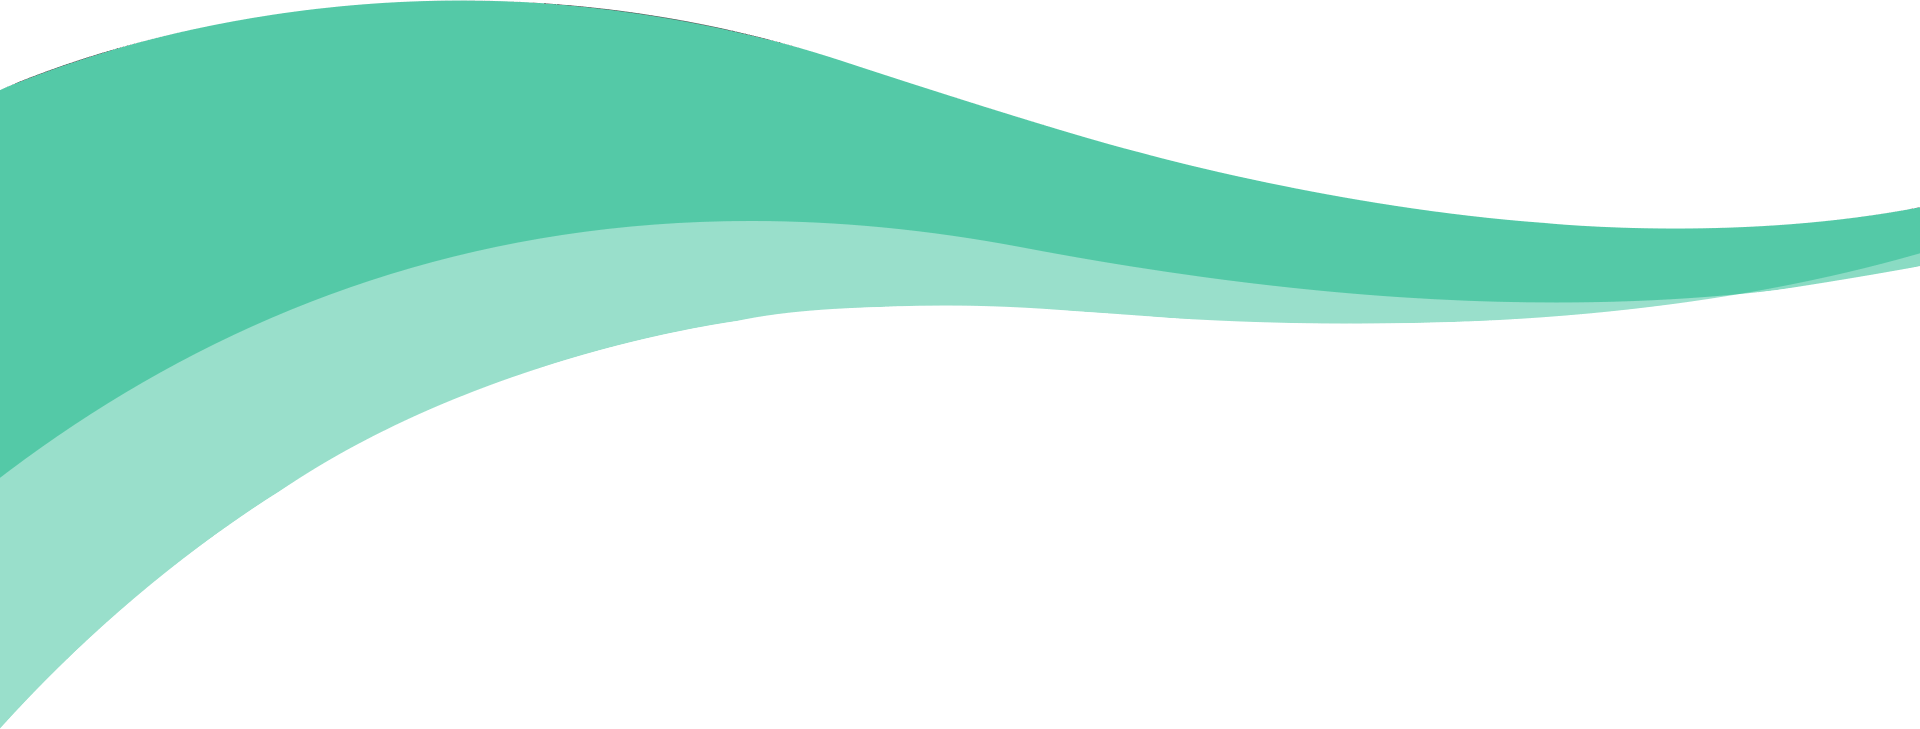
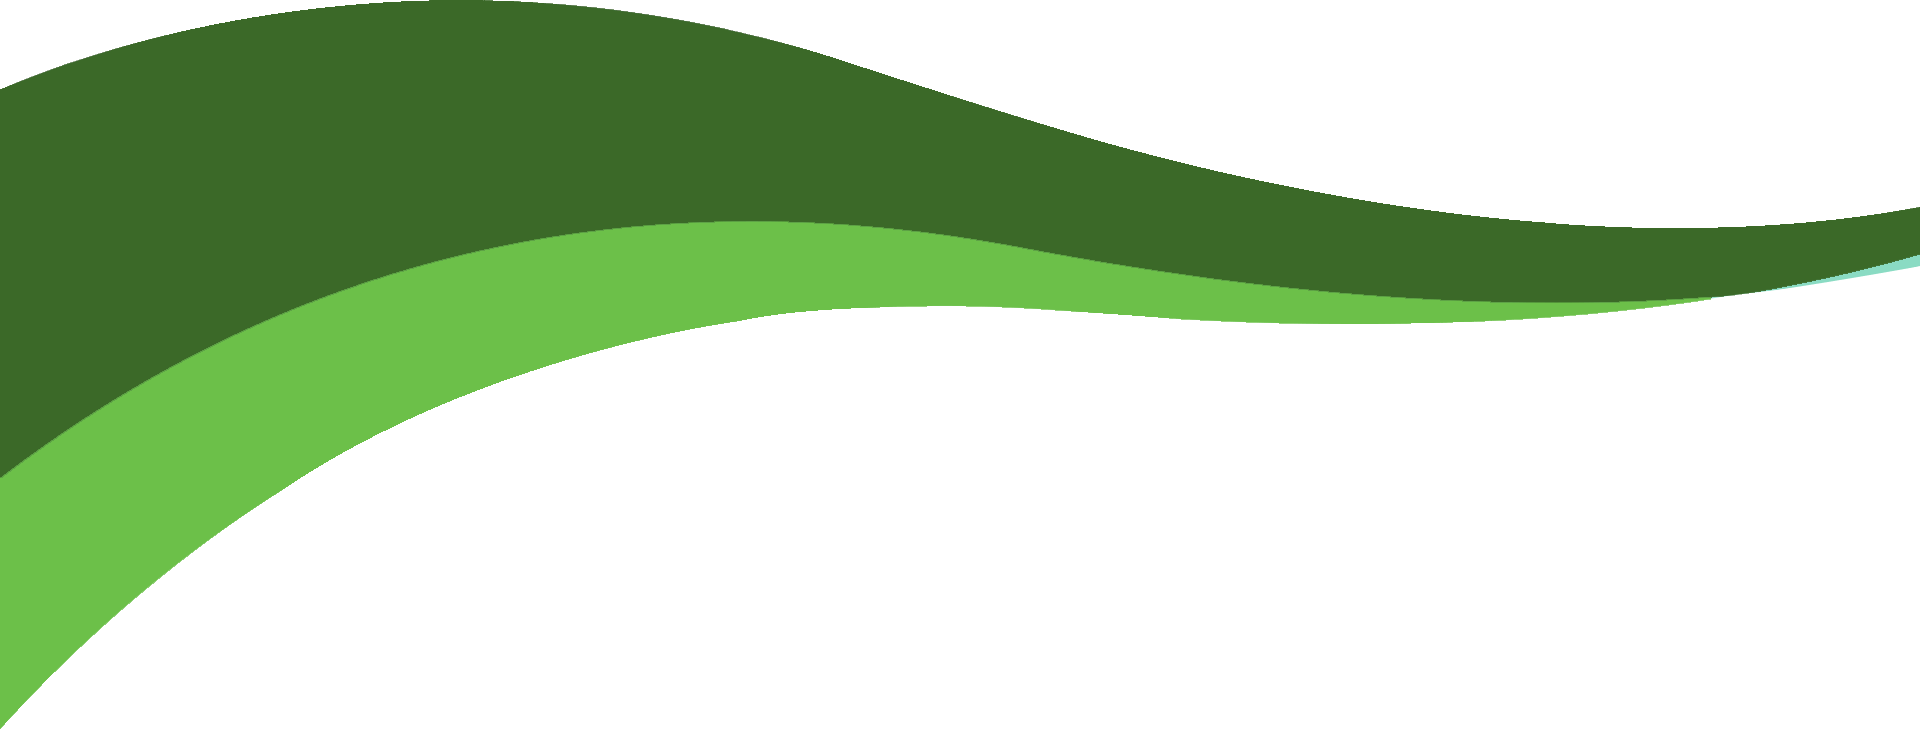
Diseño actualizado

diff --git a/index.html b/index.html
@@ -18,8 +18,8 @@
       <link rel="stylesheet" href="css/style.css">
       <!-- Responsive-->
       <link rel="stylesheet" href="css/responsive.css">
-      <!-- fevicon -->
-      <link rel="icon" href="images/fevicon.png" type="image/gif" />
+      <!-- favicon -->
+      <link rel="icon" href="images/favicon.png" type="image/gif" />
       <!-- Scrollbar Custom CSS -->
       <link rel="stylesheet" href="css/jquery.mCustomScrollbar.min.css">
       <!-- Tweaks for older IEs-->
@@ -45,7 +45,7 @@
                <div class="col-xl-3 col-lg-3 col-md-3 col-sm-3 col logo_section">
                   <div class="full">
                      <div class="center-desk">
-                        <div class="logo"> <a href="index.html">Agatar Servicios</a> </div>
+                        <div class="logo"> <a href="index.html"><img src="images/logo.png" alt="Logo"> </a></div>
                      </div>
                   </div>
                </div>
@@ -94,7 +94,7 @@
                   <div class="titlepage">
                      <h2>Quiénes somos</h2>
                      <span>
-                        Somos una empresa que presta servicios de <strong>Conserjería, Limpieza y Jardinería</strong> en toda la Comunidad Madrid.
+                        Agatar Servicios cuenta con más de 20 años de experiencia prestando los servicios de <strong>Conserjería, Limpieza y Jardinería</strong> en toda la Comunidad Madrid.
                         <br><br>
                         Nuestro objetivo es satisfacer plenamente las necesidades de nuestros clientes en toda la <strong>Comunidad de Madrid</strong>, aportando en cada situación
                         y momento nuestros amplios conocimientos, asegurando los más altos estándares de calidad.
@@ -135,14 +135,24 @@
                         Garantizamos a nuestros clientes la máxima excelencia en calidad de servicio, con soluciones personalizadas que permiten adaptar los costes a
                         las necesidades reales de cada cliente y a todo tipo de empresas, independientemente de sus tamaño o actividad, públicas o privadas.
                         <br><br>
-                        Ponte en contacto con nosotros y recibirás, sin ningún compromiso, un proyecto ajustado a tus necesidades.
+                        Ponte en contacto con nosotros y recibirás, sin ningún compromiso y de manera gratuita, un presupuesto ajustado a tus necesidades.
                         <br><br>
                         <strong>
-                           Servicios de Limpieza
+                           Limpieza final de obra
                            <br>
-                           Consejería y Control de Accesos
+                           Limpieza de comunidades
                            <br>
-                           Jardinería y Mantenimiento General de Instalaciones
+                           Limpieza de oficinas
+                           <br>
+                           Limpieza de garajes
+                           <br>
+                           Limpieza de viviendas
+                           <br>
+                           Limpieza de cristales y escaparates
+                           <br>
+                           Consejería (2, 4, 8, 16 o 24 horas)
+                           <br>
+                           Mantenimiento y cuidado de jardines de manera ecológica
                         </strong>
                      </span>
                   </div>
@@ -199,6 +209,9 @@
                   <div class="titlepage">
                      <h2>Compromiso</h2>
                      <span>
+                        La seriedad, la confianza y al profesionalidad son nuestras señas de identidad.
+                        <br>
+                        <br>
                         Agatar Servicios ofrece una manera diferente de trabajar, con propuestas personalizadas, analizando las necesidades de cada cliente.
                         <br>
                         <br>
@@ -242,17 +255,17 @@
                <div class="row">
                   <div class="col-lg-3 col-md-6 col-sm-12 width">
                      <div class="address">
-                        <h3><img src="icon/3.png"> Dirección</h3>
+                        <h3><img src="icon/3_1.png"> Dirección</h3>
                         <i>
                            Calle Benimamet nº 4
                            <br>
-                           28021 Madrid
+                           CP 28021 Madrid
                         </i>
                      </div>
                   </div>
                   <div class="col-lg-3 col-md-6 col-sm-12 width">
                      <div class="address">
-                        <h3><img src="icon/2.png"> Menú</h3>
+                        <h3><img src="icon/2_1.png"> Menú</h3>
                         <i>
                            <ul>
                               <li> <a href="index.html">Inicio</a> </li>
@@ -266,21 +279,25 @@
                   </div>
                   <div class="col-lg-3 col-md-6 col-sm-12 width">
                      <div class="address">
-                        <h3><img src="icon/4.png"> Contacto</h3>
+                        <h3><img src="icon/4_1.png"> Contacto</h3>
                         <i>
                            <p>Joni Mauricio Tabora</p>
-                           <a href="mailto:email@ejemplo.com">joni_tabora@hotmail.com</a>
+                           <a href="mailto:joni_tabora@gmail.com">joni_tabora@gmail.com</a>
+                           <a href="mailto:agatarservicios@gmail.com">agatarservicios@gmail.com</a>
                            <br>
-                           <a href="tel:+34682351284">682351284</a>
+                           Telefono 1: <a href="tel:+34682351284">682351284</a>
+                           <br>
+                           Teléfono 2: <a href="tel:+34632979506">632979506</a>
                         </i>
                      </div>
                   </div>
                   <div class="col-lg-3 col-md-6 col-sm-12 width">
                      <div class="address">
+                     
                         <h3> Redes sociales</h3>
                         <ul class="contant_icon">
-                           <li><a href="https://m.facebook.com/jonimauricio.tabora/" target="_blank"><img src="icon/fb.png" alt="icon"/></a> </li>
-                           <li><a href="https://api.whatsapp.com/send?phone=+34682351284" target="_blank"><img src="icon/ws.png" alt="icon"/></a></li>
+                           <li><a href="https://m.facebook.com/jonimauricio.tabora/" target="_blank"><img src="icon/fb_1.png" alt="icon"/></a> </li>
+                           <li><a href="https://api.whatsapp.com/send?phone=+34682351284" target="_blank"><img src="icon/ws_1.png" alt="icon"/></a></li>
                         </ul>
                      </div>
                   </div>
@@ -298,7 +315,6 @@
       <script src="js/bootstrap.bundle.min.js"></script>
       <script src="js/jquery-3.0.0.min.js"></script>
       <script src="js/plugin.js"></script>
-      <script src="js/contact-form-script.js"></script>
       <!-- sidebar -->
       <script src="js/jquery.mCustomScrollbar.concat.min.js"></script>
       <script src="js/custom.js"></script>

diff --git a/css/style.css b/css/style.css
@@ -464,11 +464,11 @@ nav.main-menu {
 
 .menu-area-main li:hover a,
 .menu-area-main li:focus a {
-	color: #000;
+	color: #3b6928;
 }
 
 .menu-area-main li.active a {
-	color: #000;
+	color: #3b6928;
 }
 
 .right_cart_section {
@@ -1050,7 +1050,7 @@ nav.main-menu {
 	font-size: 16px;
 	display: block;
 	font-weight: 500;
-	color: #fff;
+	color: rgb(0, 0, 0);
 	text-transform: uppercase;
 }
 
@@ -1643,7 +1643,7 @@ input[type="radio"] .styled:checked+label::after {
 ---------------------------------------------------------------------*/
 
 .header {
-	background: #0fc690;
+	background: #ffffff;
 	padding: 40px 0px;
 	padding-bottom: 35px;
 }
@@ -1680,8 +1680,8 @@ input[type="radio"] .styled:checked+label::after {
 
 .banner-main .carousel-caption a {
 	text-transform: uppercase;
-	border: #0fc690 solid 1px;
-	background: #0fc690;
+	border: #3b6928 solid 1px;
+	background: #3b6928;
 	width: 196px;
 	padding: 12px 0;
 	display: inline-block;
@@ -1762,7 +1762,7 @@ input[type="radio"] .styled:checked+label::after {
 	font-weight: bold;
 	color: #050303;
 	line-height: 46px;
-	border-bottom: #0fc690 solid 1px;
+	border-bottom: #3b6928 solid 1px;
 	margin: 0 auto;
 	margin-bottom: 0px;
 	margin-bottom: 20px;
@@ -1797,8 +1797,8 @@ input[type="radio"] .styled:checked+label::after {
 }
 
 .about .img-box a:hover {
-	border: #0fc690 solid 1px;
-	background: #0fc690;
+	border: #3b6928 solid 1px;
+	background: #3b6928;
 }
 
 
@@ -1858,7 +1858,7 @@ input[type="radio"] .styled:checked+label::after {
 	font-weight: bold;
 	color: #050303;
 	line-height: 46px;
-	border-bottom: #0fc690 solid 1px;
+	border-bottom: #3b6928 solid 1px;
 	margin: 0 auto;
 	margin-bottom: 0px;
 	margin-bottom: 20px;
@@ -1873,7 +1873,7 @@ input[type="radio"] .styled:checked+label::after {
 	text-align: center;
 	display: flex;
 	justify-content: center;
-	background: #0fc690d6;
+	background: #3b6928d6;
 	align-items: center;
 	margin: 0 15px;
 }
@@ -1962,7 +1962,7 @@ img.zoom {
 	padding: 0px 0px 6px 0px;
 	font-size: 40px;
 	font-weight: bold;
-	border-bottom: #0fc690 solid 1px;
+	border-bottom: #3b6928 solid 1px;
 	color: hsl(0, 25%, 2%);
 	line-height: 46px;
 	margin-bottom: 0px;
@@ -1993,7 +1993,7 @@ img.zoom {
 #main_slider .carousel-control-next:hover,
 #main_slider .carousel-control-prev:focus,
 #main_slider .carousel-control-next:focus {
-	background: #0fc690;
+	background: #3b6928;
 	color: #fff;
 }
 
@@ -2027,14 +2027,14 @@ img.zoom {
 }
 
 .read-more a:hover {
-	background: #0fc690;
+	background: #3b6928;
 }
 
 
 /** end download section **/
 
 .testimonial {
-	background: #0fc690;
+	background: #3b6928;
 	padding: 60px 0px;
 }
 
@@ -2071,7 +2071,7 @@ img.zoom {
 }
 
 .carousel-caption.relat h3 {
-	color: #0fc690;
+	color: #3b6928;
 	font-size: 20px;
 	text-transform: uppercase;
 	line-height: 20px;
@@ -2095,7 +2095,7 @@ img.zoom {
 #testimonial_slider .carousel-control-prev:focus,
 #testimonial_slider .carousel-control-next:focus {
 	color: #fff;
-	background: #0fc690;
+	background: #3b6928;
 	width: 50px;
 	height: 50px;
 }
@@ -2169,8 +2169,8 @@ img.zoom {
 }
 
 .testimonial .contact .send:hover {
-	background-color: #0fc690;
-	border: #0fc690 solid 1px;
+	background-color: #3b6928;
+	border: #3b6928 solid 1px;
 	color: #fff;
 }
 
@@ -2179,7 +2179,7 @@ img.zoom {
 }
 
 .footer {
-	background: #023023;
+	background: #3b6928;
 	padding-top: 55px;
 }
 
@@ -2257,8 +2257,8 @@ ul.contant_icon li {
 }
 
 ul.contant_icon li img {
-	width: 32px;
-	height: 32px;
+	width: 40px;
+	height: 40px;
 }
 
 .footer .newsletter h3 {
@@ -2284,8 +2284,8 @@ ul.contant_icon li img {
 
 .footer .address .submit-btn {
 	padding: 5px 29px;
-	border: #0fc690 solid 1px;
-	background: #0fc690;
+	border: #3b6928 solid 1px;
+	background: #3b6928;
 	color: #fff;
 	font-weight: 500;
 	font-size: 20px;
@@ -2296,14 +2296,21 @@ ul.contant_icon li img {
 	border: #000 solid 1px;
 }
 
-.footer .address a {
+.footer .address i a {
     color: #fff;
     font-size: 15px;
     font-weight: 500;
+	
+	text-decoration: none;
+    background-image: linear-gradient(currentColor, currentColor);
+    background-position: 0% 100%;
+    background-repeat: no-repeat;
+    background-size: 0% 2px;
+    transition: background-size .3s;
 }
 
-.footer .address a:hover {
-    color: #0fc690;
+.footer .address i a:hover {
+	background-size: 100% 2px;
 }
 
 .copyright {
@@ -2321,7 +2328,7 @@ ul.contant_icon li img {
 }
 
 .copyright a:hover {
-	color: #0fc690
+	color: #3b6928
 }
 
 
@@ -2403,7 +2410,7 @@ ul.contant_icon li img {
 #myCarousel .carousel-control-next:hover,
 #myCarousel .carousel-control-prev:focus,
 #myCarousel .carousel-control-next:focus {
-	background: #0fc690;
+	background: #3b6928;
 	color: #fff;
 }
 
